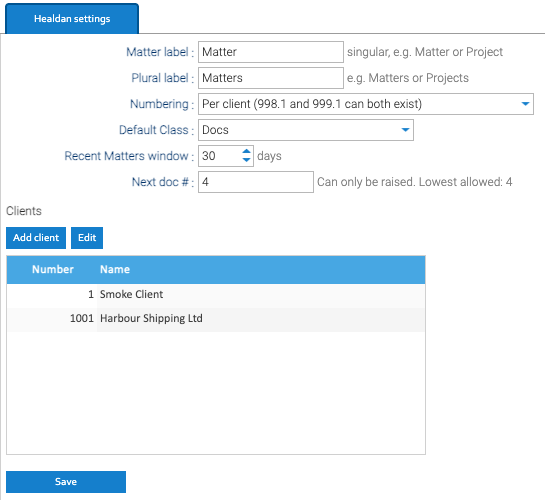
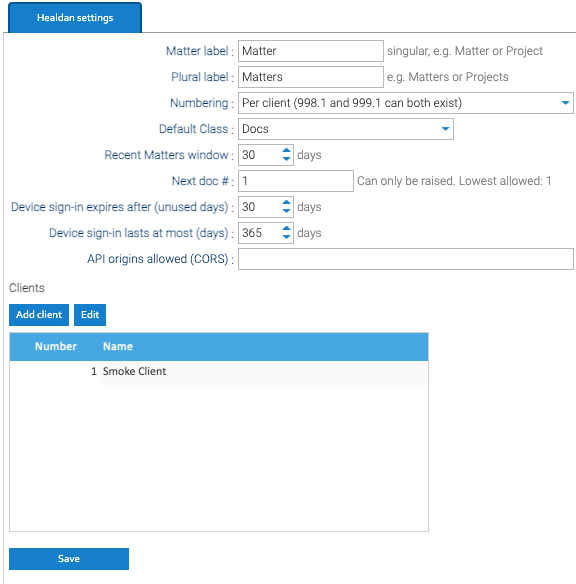
Fix the M2 docs after review: the admin exemption, tokens as API keys, and a new screenshot
Two security statements promised more than the code gives. The admin
exemption isn't confined to the container: anything Tomcat trusts to
forward addresses, the Docker host included, can claim 127.0.0.1. And a
device token also works as a LogicalDOC API key through loginApiKey,
with its user's rights, until revoked. The settings page, the API page
and the spec now say so, consistently with the Reverse Proxy page and
the capability map.

Also: stop the app before editing context.properties, since a settings
screen saving rewrites it; "names" not "fields"; "username"; the origin's
port is optional; what password-protected documents can't do; required
properties as the listeners' exception. The Healdan Settings screenshot
is retaken from a throwaway stack at 1280 x 800, with the API fields.

Changed region(s): [[0.0, 0.0, 1.0, 1.0], [0.967, 0.42, 0.9982, 0.45]]

diff --git a/docs/superpowers/specs/2026-10-23-m2-api-foundation-design.md b/docs/superpowers/specs/2026-10-23-m2-api-foundation-design.md
@@ -186,7 +186,7 @@ Lists take `offset` (default 0) and `limit` (default 50, at most 200), and retur
 - **Format:** `hd_` followed by 43 characters, the base64url form of 32 random bytes. The prefix lets Healdan's authenticator recognise its own tokens, as CE recognises its `ld-` API keys, and lets secret scanners spot a leaked one.
 - **Storage:** only the SHA-256 of the token is stored (`hd_api_token`, §11). The token itself is shown once, in the sign-in response.
 - **Sent as** `Authorization: Bearer hd_…` on every request. The API accepts no other way to authenticate: no cookies, no `sid`, no Basic, no `X-API-KEY`. That rules out cross-site request forgery, because a browser never attaches a bearer token by itself.
-- **Elsewhere.** A token signs in through CE's chain as a key (§5.3). CE's own routes that take an `X-API-KEY` (`/services/rest`, `/download` and the other servlets behind `SessionFilter`) accept it only while the CE session the API bound it to is open: `SessionManager.getSessionFromApiKey` reuses an open session whose key matches, without re-authenticating. That gives the token no more than the password it stands for. Revoking it, or changing the password, closes every open CE session whose key is the token, so it stops working there as well. (changed in the build: this said CE's routes accept a token as they accept a key. They can't open a session for one: `SessionFilter` calls `newSession(null, null, key, request)`, and `AuthenticationChain` dereferences the null username, so an `X-API-KEY` with no open session never signs in there. And the session they reuse can stay open past the token's idle or absolute expiry, or its user's deletion, until CE closes it: after `session.timeout` idle minutes, or a restart.)
+- **Elsewhere.** A token signs in through CE's chain as a key (§5.3), so it works wherever CE signs a key in. CE's `loginApiKey`, at `/services/rest/auth/loginApiKey` and in SOAP's auth service, opens a CE session keyed by the token, for the token's user. CE's routes that take an `X-API-KEY` (`/services/rest`, `/download` and the other servlets behind `SessionFilter`) accept the token while a session keyed by it is open: one from `loginApiKey`, or one the API's filter opened when it reopened the token's session (§5.3). `SessionManager.getSessionFromApiKey` reuses such a session without re-authenticating. That gives the token no more than the password it stands for. Revoking it, or changing the password, closes every open CE session whose key is the token, so it stops working there as well. (changed in the build: this said CE's routes accept a token as they accept a key. Those routes can't open a session for one: `SessionFilter` calls `newSession(null, null, key, request)`, and `AuthenticationChain` dereferences the null username, so an `X-API-KEY` with no session keyed by it fails there. The session the password sign-in opens has no key, so it isn't one of them. And a keyed session can stay open past the token's idle or absolute expiry, or its user's deletion, until CE closes it: after `session.timeout` idle minutes, or a restart. The capability map's §4.1 records the same. `ApiTokensTest` and `TokenUserListenerTest` cover revocation closing sessions opened with the token as a key.)
 
 ### 5.2 Endpoints
 
@@ -248,7 +248,7 @@ OIDC sign-in (M4) ends the same way: the provider's pop-up signs the user in, th
 - Nothing else in the throttle changes: CE already counts failures, blocks, and emails `throttle.alert.recipients` (admin) about a suspected attack. (found in the build: CE sends that alert, a system message and an email, for every blocked attempt, not once per attack. The follow-up below covers it.)
 - **Turned on by a seed step.** CE reads the throttle from `context.properties`, which ships `throttle.enabled = false`, and DockerInit never overwrites an existing value. So a new Healdan seed step writes `throttle.enabled = true`, `throttle.username.max = 5`, `throttle.username.wait = 15`, `throttle.ip.max = 20`, `throttle.ip.wait = 15` and `throttle.username.disableuser = false` into the install's `context.properties`, as CE's own settings screen does. It runs once per install, fresh or upgraded, so an admin can change the values afterwards and they stay. (found in the build: that screen, Brute Force Attack Prevention, is hidden in Healdan, because it needs feature 39, which nothing declares. So an admin changes `throttle.*` in the configuration volume's `context.properties` and restarts, as the docs site's Healdan Settings page says.)
 - **API keys and tokens.** CE's API-key limit (`throttle.apikey.*`) stays as shipped. The API's filter refuses an unknown or revoked device token itself, before the sign-in chain, so a stale token in an add-in never counts against the user's address.
-- **The real address.** Behind the reverse proxy, Tomcat's `RemoteIpValve` (`docker/server.xml`) gives the client's own address, so users don't share the proxy's. CE also never blocks `admin` signing in from the server itself (`127.0.0.1` or `::1`). (changed in the build: this called that the way back in for a blocked admin, and said nothing of what the valve trusts. The valve trusts `X-Forwarded-For` from every private, loopback and link-local address, Tomcat's default `internalProxies`, not just the proxy's, and nginx and NPM pass on a header the client sent. So a client on the LAN or VPN can claim any address: a new one for each attempt, which dodges the per-address limit, or `127.0.0.1`, which exempts `admin` from every check. In the Docker stack a browser on the host reaches the app from Docker's gateway address, so the exemption only helps a request from inside the container, and a blocked admin waits like anyone else. A follow-up, "Harden the sign-in throttle behind the proxy", is proposed to the owner: trust only the proxy's address, and alert once per attack. The docs site's Reverse Proxy page records the limit.)
+- **The real address.** Behind the reverse proxy, Tomcat's `RemoteIpValve` (`docker/server.xml`) gives the client's own address, so users don't share the proxy's. CE also never blocks `admin` signing in from the server itself (`127.0.0.1` or `::1`). (changed in the build: this called that the way back in for a blocked admin, and said nothing of what the valve trusts. The valve trusts `X-Forwarded-For` from every private, loopback and link-local address, Tomcat's default `internalProxies`, not just the proxy's, and nginx and NPM pass on a header the client sent. So a client on the LAN or VPN can claim any address: a new one for each attempt, which dodges the per-address limit, or `127.0.0.1`, which exempts `admin` from every check. In the Docker stack only a request from inside the app's container really comes from `127.0.0.1`. But anything the valve trusts can claim it: the Docker host, which reaches the app from Docker's gateway address, and the LAN when the stack is published there or sits behind nginx or NPM. So the throttle doesn't protect `admin` from those, and the exemption is no way back in for a blocked admin either. A follow-up, "Harden the sign-in throttle behind the proxy", is proposed to the owner: trust only the proxy's address, and alert once per attack. The docs site's Reverse Proxy page records the limit.)
 - **In the API,** a blocked sign-in gets `429 too-many-attempts` (§4.4), and the detail says when to try again.
 
 ## 6. Endpoints in M2 (calls, within the roadmap's first slice)

diff --git a/site/content/admin/healdan-settings/index.md b/site/content/admin/healdan-settings/index.md
@@ -6,7 +6,7 @@ weight: 7
 Healdan's own settings are under **Administration → Healdan → Settings**. Click **Save** after changing them.
 Clients are saved from their own window, without Save.
 
-![The Healdan settings panel: matter labels, numbering, default Class, the Recent Matters window, the next doc #, and the client list with Add client and Edit](healdan-settings.png)
+![The Healdan settings panel: matter labels, numbering, default Class, the Recent Matters window, the next doc #, the two device sign-in limits, API origins allowed (CORS), and the client list with Add client and Edit](healdan-settings.png)
 
 | Setting | What it does |
 |---|---|
@@ -17,7 +17,7 @@ Clients are saved from their own window, without Save.
 | Next doc # | the number the next document gets. It can only be raised, for example to start at 1000 after a trial. The panel shows the lowest number allowed |
 | Device sign-in expires after (unused days) | how long a device signed in through Healdan's [API](../../developer/api/) stays signed in without being used. 30 to begin with, and from 1 to 3650. A change applies to every device at once |
 | Device sign-in lasts at most (days) | how long a device's sign-in lasts however often it's used. 365 to begin with, from 1 to 3650, and no less than the unused days. A change applies to sign-ins made after it |
-| API origins allowed (CORS) | the addresses, other than Healdan's own, whose pages may call the API, such as `https://localhost:3000`, separated by commas: scheme, host and port, with no path and no `*`. Empty to begin with, which is right unless an add-in is served from another address |
+| API origins allowed (CORS) | the addresses, other than Healdan's own, whose pages may call the API, such as `https://localhost:3000`, separated by commas: scheme, host and an optional port, with no path and no `*`. Empty to begin with, which is right unless an add-in is served from another address |
 | Clients | the client list. **Add client** adds one, and **Edit** changes the selected client's name |
 
 ## The Class and Subclass Lists
@@ -52,19 +52,23 @@ services.
   temporarily blocked. Try after 15 minutes." for a blocked address. The API answers `429 too-many-attempts`.
 - **Alerts.** Each blocked attempt sends the users in `throttle.alert.recipients` (`admin` to begin with) a message
   in Healdan, and an email too if [outgoing email](../system/outgoing-email/) is set up.
-- **`admin` from the server itself.** LogicalDOC never blocks the `admin` account signing in from `127.0.0.1` or
-  `::1`, the server's own address. In the Docker stack only a request from inside the app's container has that
-  address: a browser on the Docker host comes in through Docker's network. So a blocked `admin` waits the 15
-  minutes like anyone else.
+- **`admin` and the server's own address.** LogicalDOC never blocks the `admin` account signing in from
+  `127.0.0.1` or `::1`. Only a request from inside the app's container really comes from that address. But
+  anything Tomcat trusts to forward addresses can claim it: the Docker host, which reaches the app through Docker's
+  network, and the machines on your network when the app is published there or behind nginx or NPM. So the throttle
+  doesn't protect `admin` from those. Give `admin` a long password that isn't used anywhere else. See
+  [Reverse Proxy](../../install/reverse-proxy/#the-sign-in-throttle-behind-a-proxy).
 
 Behind a reverse proxy, Healdan has to see each person's own address. See
-[Reverse Proxy](../../install/reverse-proxy/#the-sign-in-throttle-behind-a-proxy), which also has a limitation to
-know about.
+[Reverse Proxy](../../install/reverse-proxy/#the-sign-in-throttle-behind-a-proxy), which also has the limitation
+above in full.
 
 ### Changing the Limits
 
-The throttle has no screen in Healdan. Its settings are in the configuration volume's `context.properties`; change
-them there, then restart the app with `docker compose restart app`.
+The throttle has no screen in Healdan. Its settings are in the configuration volume's `context.properties`. Stop
+the app first (`docker compose stop app`), change them, then start it again (`docker compose start app`). While the
+app runs, a settings screen that saves rewrites the whole file from what the app read when it started, and your
+change would be lost.
 
 | Setting | Healdan's value | What it does |
 |---|---|---|

diff --git a/docs/ROADMAP.md b/docs/ROADMAP.md
@@ -291,7 +291,7 @@ M2 comes before M3 because the add-ins need an API (call). M4 can be pulled earl
 
 The owner also decided that sign-in is throttled on every route, which CE never actually did (spec §5.7). The [inventory](reference/healdan-api-inventory.md) of every server call the old UI makes is committed beside the spec.
 
-**Built** on 2026-10-23 and 2026-10-24, in four PRs (#62, #63, #64 and PR D), with a docs page for client developers on the docs site. The build departed from the spec in a few ways, each marked "changed in the build" there. The main ones: the tests drive the real servlet through Spring's servlet mocks rather than CXF's local transport; only a password sign-in clears the throttle's failure counts, so CE's own clear in the form login is removed, one more upstream edit; a lock taken with the old UI's Lock action stops saves through the API even for the person who took it; `/search` never counts its results; uploads keep the old UI's size and extension limits; and password-protected documents are always refused through the API. The build also found that Tomcat trusts forwarded addresses from every private network, so a machine on the LAN can dodge the per-address limit or claim the server's own address, which exempts `admin`. A follow-up, "Harden the sign-in throttle behind the proxy", is proposed to the owner. The owner's acceptance walkthrough (spec §14.2) is still to come.
+**Built** on 2026-10-23 and 2026-10-24, in four PRs (#62, #63, #64 and PR D), with a docs page for client developers on the docs site. The build departed from the spec in a few ways, each marked "changed in the build" there. The main ones: the tests drive the real servlet through Spring's servlet mocks rather than CXF's local transport; only a password sign-in clears the throttle's failure counts, so CE's own clear in the form login is removed, one more upstream edit; a lock taken with the old UI's Lock action stops saves through the API even for the person who took it; `/search` never counts its results; uploads keep the old UI's size and extension limits; and password-protected documents can't be downloaded, checked out, saved or changed through the API, though their properties can be read. The build also found that Tomcat trusts forwarded addresses from every private network, so a machine on the LAN can dodge the per-address limit or claim the server's own address, which exempts `admin`. A follow-up, "Harden the sign-in throttle behind the proxy", is proposed to the owner. The owner's acceptance walkthrough (spec §14.2) is still to come.
 
 ---
 

diff --git a/site/content/developer/api.md b/site/content/developer/api.md
@@ -127,7 +127,7 @@ Lists take `offset` (0 to begin with) and `limit` (50 to begin with, from 1 to 2
 
 ## Conventions
 
-- **Healdan's words.** Fields say `store`, `matter`, `client`, `docNumber`, `legacyDocNumber`, `dateFiled` and
+- **Healdan's words.** Names say `store`, `matter`, `client`, `docNumber`, `legacyDocNumber`, `dateFiled` and
   `snapshot`, never LogicalDOC's `workspace` or `customId`. The API always says `matter`; `GET /server` gives the
   word your install shows people instead, such as Project.
 - **Documents are addressed by doc #:** `/documents/1234` is document #1234.
@@ -202,5 +202,10 @@ which start `ld-` and are sent as `X-API-KEY`. People make them in the web page,
 bar, in **Security → API Keys**.
 
 They're LogicalDOC's older services. They speak LogicalDOC's words, so a Store is a workspace there, and an API key
-never expires and survives a password change. New clients use `/api`, which doesn't take API keys, and whose
-device tokens are only for `/api`.
+never expires and survives a password change. New clients use `/api`, which doesn't take API keys.
+
+**A device token is also a LogicalDOC API key.** Sent as `X-API-KEY` to `/services/rest/auth/loginApiKey`, or to
+the SOAP service's `loginApiKey`, it opens a LogicalDOC session for the token's user, with that user's rights. While
+a session opened with the token is open, LogicalDOC's other routes accept the token as `X-API-KEY` too. Revoking
+the token, or changing the password, ends those sessions. A session that's already open lasts until LogicalDOC
+closes it, even if the token expires first. So guard a token as you would the password.

diff --git a/site/content/install/configuration.md b/site/content/install/configuration.md
@@ -33,9 +33,10 @@ is required. After changing `.env`, run `docker compose up -d`.
 Change those in `.env`. Everything else is set in the app's admin screens, and survives restarts, recreating the
 containers and rebuilding the image.
 
-A few settings have no screen. They're in the configuration volume's `context.properties`: change them there, then
-restart the app with `docker compose restart app`. The pages that need one say so, such as
-[the sign-in throttle](../../admin/healdan-settings/#changing-the-limits).
+A few settings have no screen. They're in the configuration volume's `context.properties`. Stop the app first
+(`docker compose stop app`), change them, then start it again (`docker compose start app`): while the app runs, a
+settings screen that saves rewrites the whole file from what the app read when it started. The pages that need one
+say so, such as [the sign-in throttle](../../admin/healdan-settings/#changing-the-limits).
 
 ## Passwords and Special Characters
 

diff --git a/site/content/install/known-limitations.md b/site/content/install/known-limitations.md
@@ -9,8 +9,8 @@ weight: 9
 - **MariaDB only.** Healdan's own tables support MariaDB, and HSQLDB for its tests. MySQL isn't supported.
 - **No HTTPS on its own.** The app speaks plain HTTP, so anything beyond the machine running Docker goes through a
   [reverse proxy](../reverse-proxy/).
-- **The sign-in throttle trusts every private network.** A machine on your LAN or VPN can claim another network
-  address, and so get round the per-address limit and every limit on `admin`. See
+- **The sign-in throttle trusts every private network.** A machine on your LAN or VPN, or the Docker host
+  itself, can claim another network address, and so get round the per-address limit and every limit on `admin`. See
   [Reverse Proxy](../reverse-proxy/#the-sign-in-throttle-behind-a-proxy).
 - **No list of signed-in devices.** The web page doesn't show the devices a person has signed in on through the
   API. Changing their password or disabling them signs every one out.

diff --git a/site/content/install/reverse-proxy.md b/site/content/install/reverse-proxy.md
@@ -195,7 +195,8 @@ address is the one Tomcat works out from `X-Forwarded-For`, so:
 - **Known limitation: a machine on a private network can claim any address.** Tomcat trusts `X-Forwarded-For` from
   every private, loopback and link-local address, not just from your proxy. nginx and NPM also pass on a header
   the client made up, with the client's own address added at the end. So a machine on your LAN or VPN can send a
-  false address, through such a proxy or straight to the app's port, and Healdan believes it.
+  false address, through such a proxy or straight to the app's port, and Healdan believes it. So can anything on
+  the Docker host, which reaches the app through Docker's network.
   - It can claim a new address for each attempt, and never meet the per-address limit. The per-username limit
     still holds.
   - It can claim `127.0.0.1`. LogicalDOC never blocks the `admin` account signing in from that address, so it can

diff --git a/site/content/user/getting-started/signing-in/index.md b/site/content/user/getting-started/signing-in/index.md
@@ -35,7 +35,7 @@ Use the power icon in the top bar, next to the help icon.
 - **A forgotten password:** **Lost your password?** under the Sign In button resets it by email, if your install
   can send email. Otherwise your administrator can reset it.
 - **"Your username is temporarily blocked. Try after 15 minutes."** After five wrong passwords in a row, Healdan
-  refuses your user name for 15 minutes, even with the right password, wherever you sign in. Wait, then sign in
+  refuses that username for 15 minutes, even with the right password, wherever you sign in. Wait, then sign in
   again. Your account isn't disabled, and trying again while you wait doesn't make the wait longer. If the wrong
   passwords weren't yours, tell your administrator.
 - **"Your IP is temporarily blocked. Try after 15 minutes."** Twenty failed sign-ins in a row from your network

diff --git a/site/content/developer/how-healdan-extends-logicaldoc.md b/site/content/developer/how-healdan-extends-logicaldoc.md
@@ -47,7 +47,8 @@ learn from.
   - Its servlets register with `@WebServlet`. Its RPC paths are `/frontend/healdan*` and its data paths
     `/data/healdan*`.
   - Its listeners enforce Healdan's rules on every route into the server: the web UI, Healdan's API, LogicalDOC's
-    web services, WebDAV and CMIS.
+    web services, WebDAV and CMIS. Required properties are the exception: on the server, only Healdan's API
+    checks them when a document is filed.
 - **`healdan-api`** is Healdan's [API](../api/), a plugin of its own that requires `healdan-core`. Its code is under
   `com.logicaldoc.healdan.api`, where `healdan-core`'s Spring scan finds it.
   - `ApiServlet` serves `/api/*`, and registers with `@WebServlet`. It runs CXF's JAX-RS on a CXF bus of its own,
